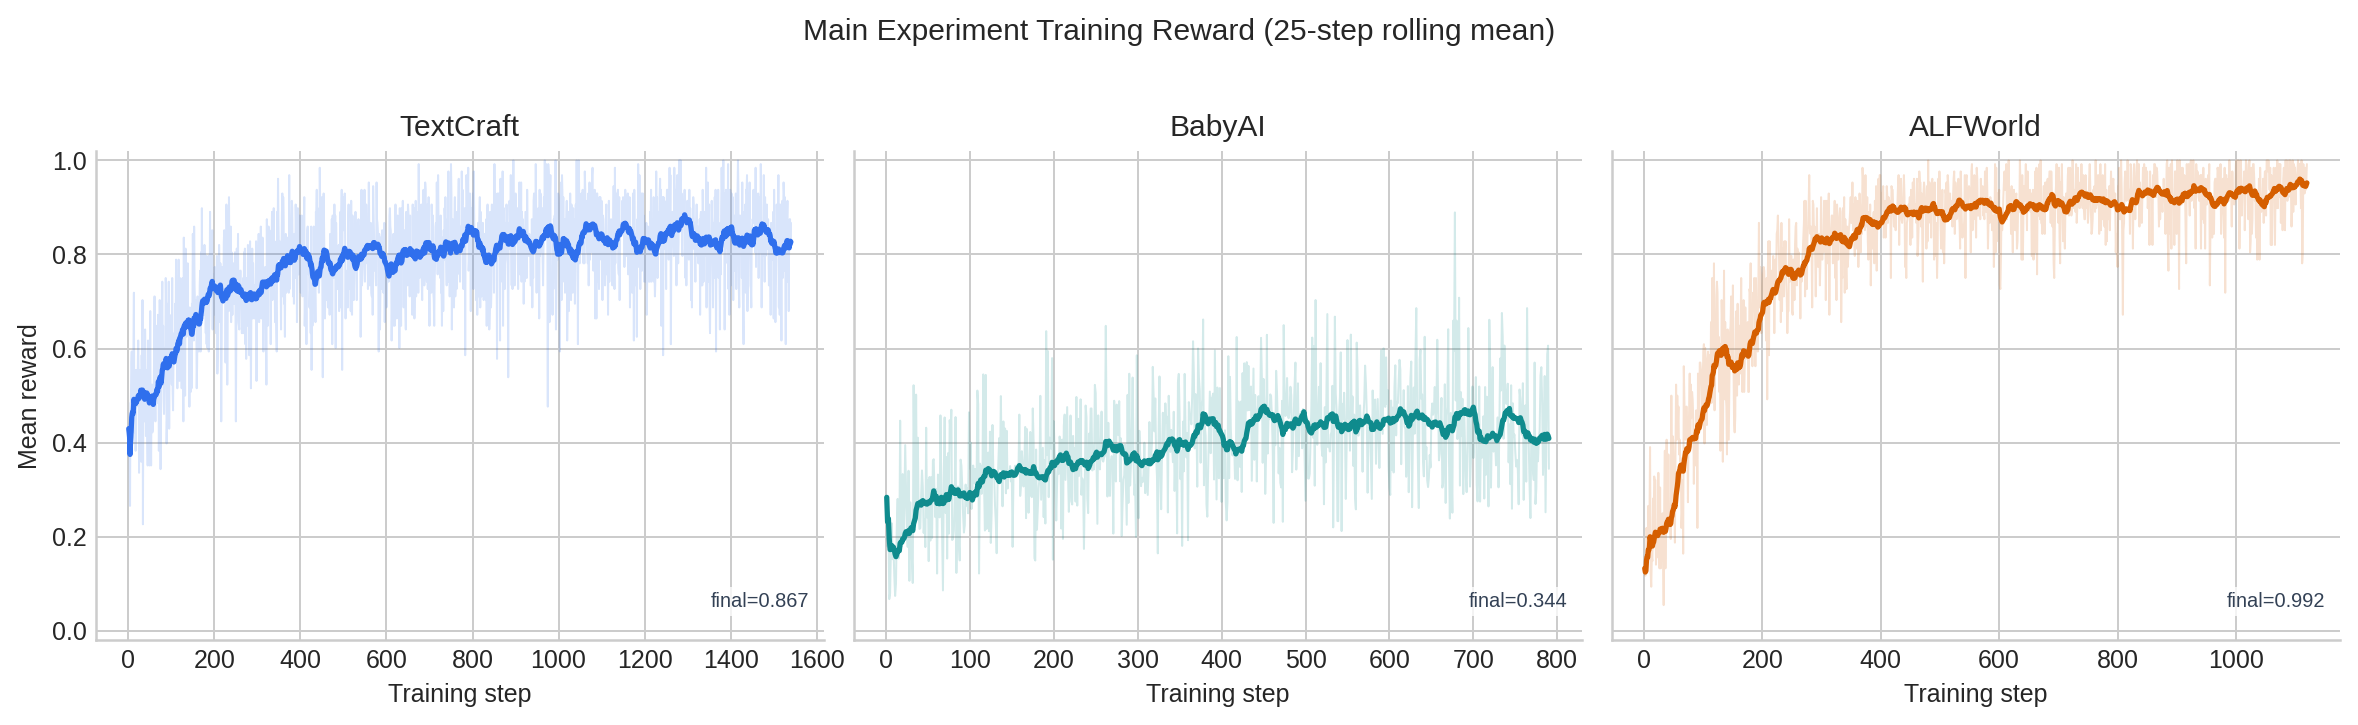
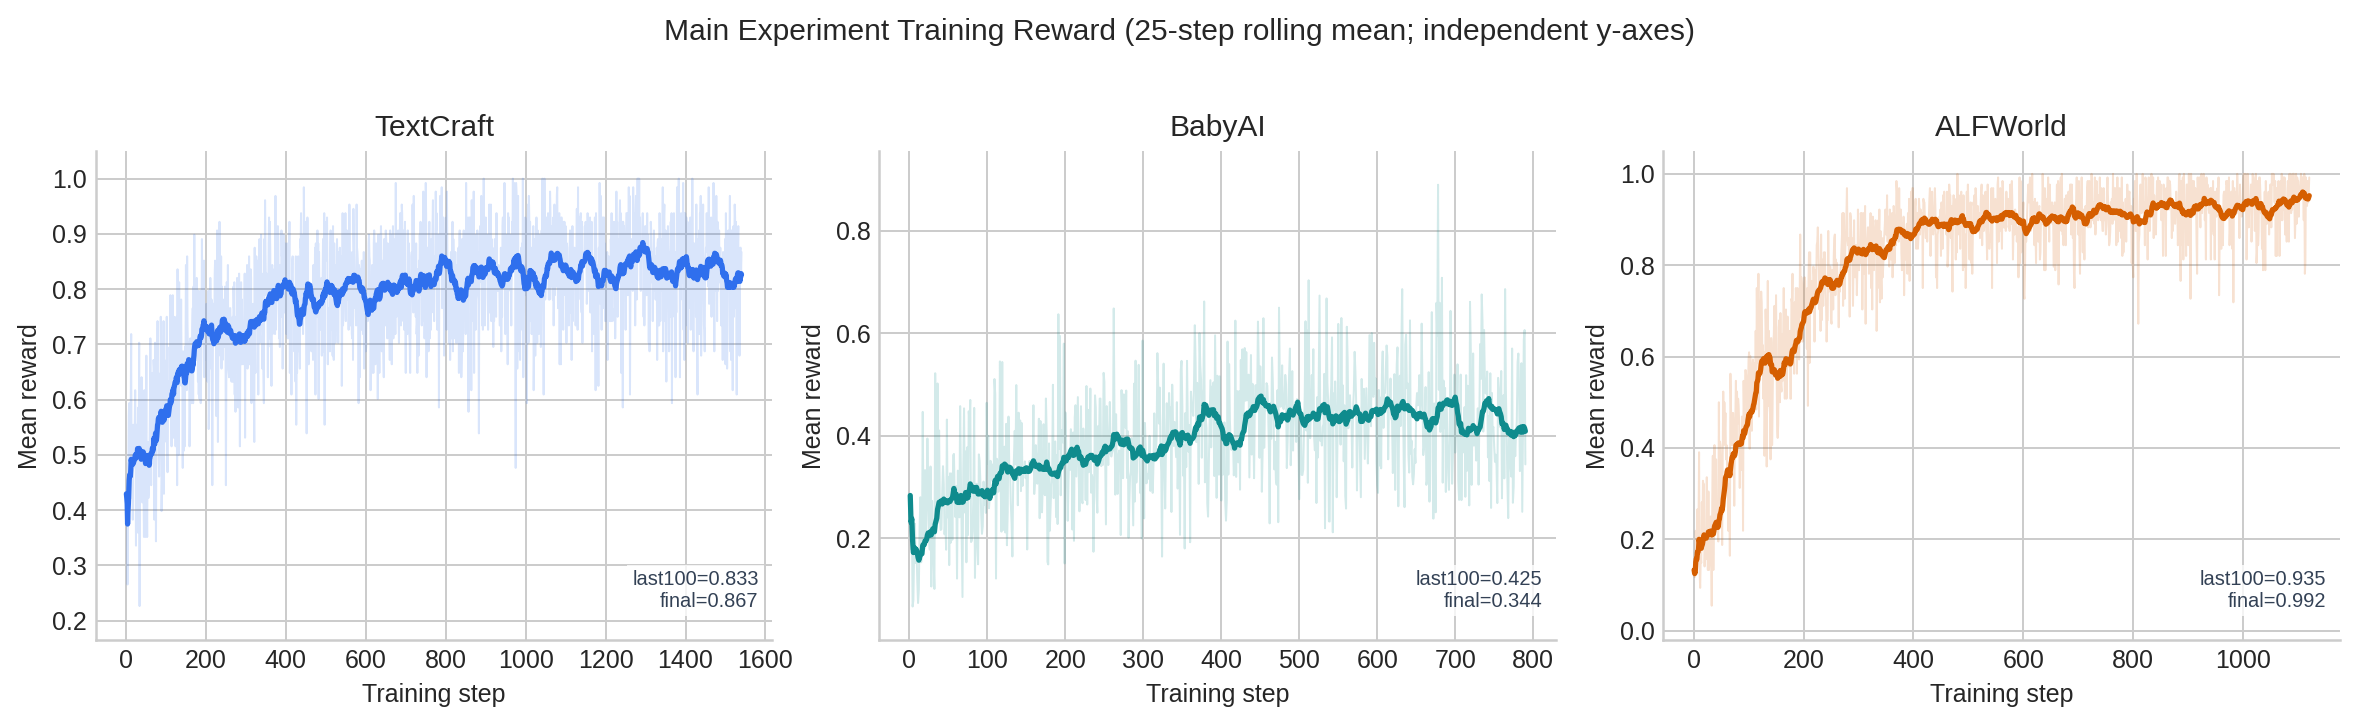
Use independent y axes for reward figure

diff --git a/scripts/utils/plot_main_reward_curves.py b/scripts/utils/plot_main_reward_curves.py
@@ -14,6 +14,7 @@ REPO_ROOT = Path(__file__).resolve().parents[2]
 PAPER_METRICS = REPO_ROOT / "results/paper_metrics.csv"
 OUTPUT_PATH = REPO_ROOT / "results/figures/main_reward_curves.png"
 ROLLING_WINDOW = 25
+SUMMARY_WINDOW = 100
 
 COLORS = {
     "TextCraft": "#2f6fed",
@@ -46,7 +47,7 @@ def main() -> None:
     runs = sorted(runs, key=lambda row: ENV_ORDER.get(row["environment"], 99))
 
     plt.style.use("seaborn-v0_8-whitegrid")
-    fig, axes = plt.subplots(1, len(runs), figsize=(13.2, 3.9), dpi=180, sharey=True)
+    fig, axes = plt.subplots(1, len(runs), figsize=(13.2, 3.9), dpi=180, sharey=False)
     if len(runs) == 1:
         axes = [axes]
 
@@ -62,6 +63,8 @@ def main() -> None:
         smoothed = df["critic_rewards_mean"].rolling(
             ROLLING_WINDOW, min_periods=1
         ).mean()
+        last_window = min(SUMMARY_WINDOW, len(df))
+        last_window_mean = df["critic_rewards_mean"].tail(last_window).mean()
         color = COLORS.get(env)
         ax.plot(
             df["step"],
@@ -78,11 +81,14 @@ def main() -> None:
         )
         ax.set_title(env)
         ax.set_xlabel("Training step")
-        ax.set_ylim(-0.02, 1.02)
+        y_min = df["critic_rewards_mean"].min()
+        y_max = df["critic_rewards_mean"].max()
+        y_margin = max((y_max - y_min) * 0.08, 0.02)
+        ax.set_ylim(max(-0.05, y_min - y_margin), min(1.05, y_max + y_margin))
         ax.text(
             0.98,
             0.06,
-            f"final={df['critic_rewards_mean'].iloc[-1]:.3f}",
+            f"last{last_window}={last_window_mean:.3f}\nfinal={df['critic_rewards_mean'].iloc[-1]:.3f}",
             transform=ax.transAxes,
             ha="right",
             va="bottom",
@@ -92,9 +98,12 @@ def main() -> None:
         )
         ax.spines["top"].set_visible(False)
         ax.spines["right"].set_visible(False)
+        ax.set_ylabel("Mean reward")
 
-    axes[0].set_ylabel("Mean reward")
-    fig.suptitle(f"Main Experiment Training Reward ({ROLLING_WINDOW}-step rolling mean)", y=1.02)
+    fig.suptitle(
+        f"Main Experiment Training Reward ({ROLLING_WINDOW}-step rolling mean; independent y-axes)",
+        y=1.02,
+    )
     fig.tight_layout()
 
     OUTPUT_PATH.parent.mkdir(parents=True, exist_ok=True)

diff --git a/prefix_grpo_fix_maintenance.md b/prefix_grpo_fix_maintenance.md
@@ -84,3 +84,11 @@
 - Regenerated `results/figures/main_reward_curves.png` with one horizontal
   subplot per environment instead of overlaying all three main reward curves
   in a single axis.
+
+## 2026-05-07 Main Reward Curve Axis Update
+
+- Updated `scripts/utils/plot_main_reward_curves.py` so the three environment
+  subplots use independent y-axes instead of a shared y-axis.
+- The figure keeps every recorded step, including the final BabyAI step, and
+  annotates both the last-100-step mean and final-step reward to avoid
+  overinterpreting a single noisy terminal point.

diff --git a/README.md b/README.md
@@ -173,7 +173,7 @@ results/training_metrics_index.csv
 results/paper_metrics.csv
 ```
 
-Main experiment reward curves, shown as separate subplots:
+Main experiment reward curves, shown as separate subplots with independent y-axes:
 
 ![Main experiment training reward curves](results/figures/main_reward_curves.png)
 